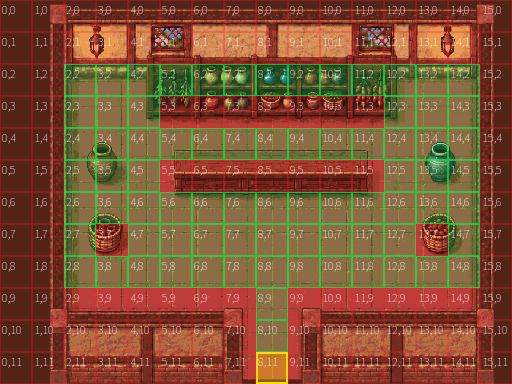
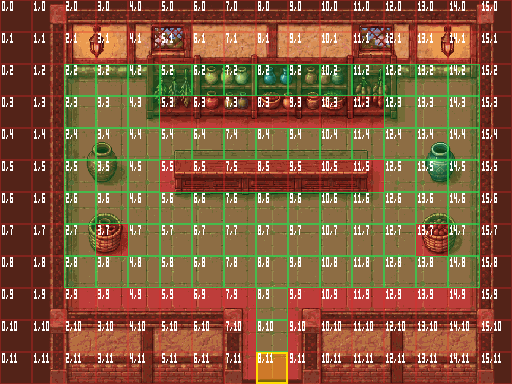
確認画像の座標文字を固定ドット描画に統一

diff --git a/tools/village_guides.py b/tools/village_guides.py
@@ -1,0 +1,49 @@
+"""確認用の格子・通行表示だけを固定整数合成と3×5の数字で描く。"""
+import numpy as np
+from PIL import Image
+
+GLYPHS={
+ '0':['111','101','101','101','111'], '1':['010','110','010','010','111'],
+ '2':['111','001','111','100','111'], '3':['111','001','111','001','111'],
+ '4':['101','101','111','001','001'], '5':['111','100','111','001','111'],
+ '6':['111','100','111','101','111'], '7':['111','001','010','010','010'],
+ '8':['111','101','111','101','111'], '9':['111','101','111','001','111'],
+ ',':['000','000','000','010','100']}
+
+def blend(pixels,color,alpha):
+    return ((pixels.astype(np.int32)*(255-alpha)+np.array(color,dtype=np.int32)*alpha+127)//255).astype('uint8')
+
+def label(pixels,x,y,text,color):
+    for character in text:
+        for dy,row in enumerate(GLYPHS[character]):
+            for dx,bit in enumerate(row):
+                if bit=='1':pixels[y+dy*2:y+dy*2+2,x+dx]=color
+        x+=4
+
+def grid(image,columns,rows,zoom=1):
+    assert zoom==1 and image.size==(columns*32,rows*32)
+    pixels=np.array(image.convert('RGB'))
+    for y in range(rows):
+        for x in range(columns):
+            tile=pixels[y*32:(y+1)*32,x*32:(x+1)*32]
+            edge=np.zeros((32,32),bool);edge[0]=edge[-1]=True;edge[:,0]=edge[:,-1]=True
+            tile[edge]=blend(tile[edge],(255,255,0),90)
+            label(pixels,x*32+2,y*32+1,f'{x},{y}',(255,255,0))
+    return Image.fromarray(pixels)
+
+def overlay(image,layout,marks,zoom=1):
+    rows,columns=len(layout),len(layout[0])
+    assert zoom==1 and image.size==(columns*32,rows*32)
+    pixels=np.array(image.convert('RGB'))
+    for y,row in enumerate(layout):
+        for x,cell in enumerate(row):
+            mark=marks.get((x,y))
+            if mark=='npc':color,alpha,border,width=(40,120,255),110,255,2
+            elif mark=='door':color,alpha,border,width=(255,220,0),90,255,2
+            elif cell=='.':color,alpha,border,width=(40,220,80),70,200,1
+            else:color,alpha,border,width=(230,40,40),55,120,1
+            tile=pixels[y*32:(y+1)*32,x*32:(x+1)*32]
+            edge=np.zeros((32,32),bool);edge[:width]=edge[-width:]=True;edge[:,:width]=edge[:,-width:]=True
+            original=tile.copy();tile[:]=blend(original,color,alpha);tile[edge]=blend(original[edge],color,border)
+            label(pixels,x*32+2,y*32+1,f'{x},{y}',(255,255,255))
+    return Image.fromarray(pixels)

diff --git a/tools/build_region2_village_backdrops.py b/tools/build_region2_village_backdrops.py
@@ -8,7 +8,8 @@ import json
 from pathlib import Path
 import numpy as np
 from PIL import Image, ImageDraw, ImageFont
-from backdrop_common import ROOT, palette, grid, overlay
+from backdrop_common import ROOT, palette
+from village_guides import grid, overlay
 from build_interior_backdrops import content_box
 from build_region2_port_town_backdrop import pack
 import region2_village_backdrop_defs as D

diff --git a/docs/decision-log.md b/docs/decision-log.md
@@ -18,3 +18,4 @@
 | 2026-10-04 | 新しい背景検査をCIへ追加し、追加箇所を除いた既存CI全文が固定基準と一致する検査を付けた。 | 既存の判定や時間上限を変えず、原画・2回再生成・実表示・通行を継続検査するため。 | 新しい検査の追加だけを通常の修正で戻せる。保護テストと既存CIは変更しない。 |
 | 2026-10-04 | CIで検出したPNGのOS差を、固定の保存ブロックで出力する専用保存処理へ変更した。 | 原画と派生の画素を変えず、WindowsとLinuxで2回再生成の全バイト照合を維持するため。 | 画素不変を確認して別の決定論的なPNG保存へ置換できる。比較条件を緩めない。 |
 | 2026-10-04 | 導入の既存台帳を確定コミットc30530cと全項目照合し、今回の範囲確認はf53dcb5に固定した。 | 後続の承認済み素材追加を既存項目の変更と誤判定せず、変更・削除・重複・順序の異常を全て拒否するため。 | 同じ対象とハッシュ期待値・異常検出を保持する別実装へ置換する。保護ファイルは変更しない。 |
+| 2026-10-04 | 確認用の座標数字を固定3×5ドット、色重ねを整数合成で描いた。 | Pillowの文字描画の版差を避け、確認画像の全バイト再生成を維持するため。ゲーム用の画像と地形は変えない。 | 同じ座標・凡例と再生成一致を保持する決定論的な描画へ置換できる。 |
